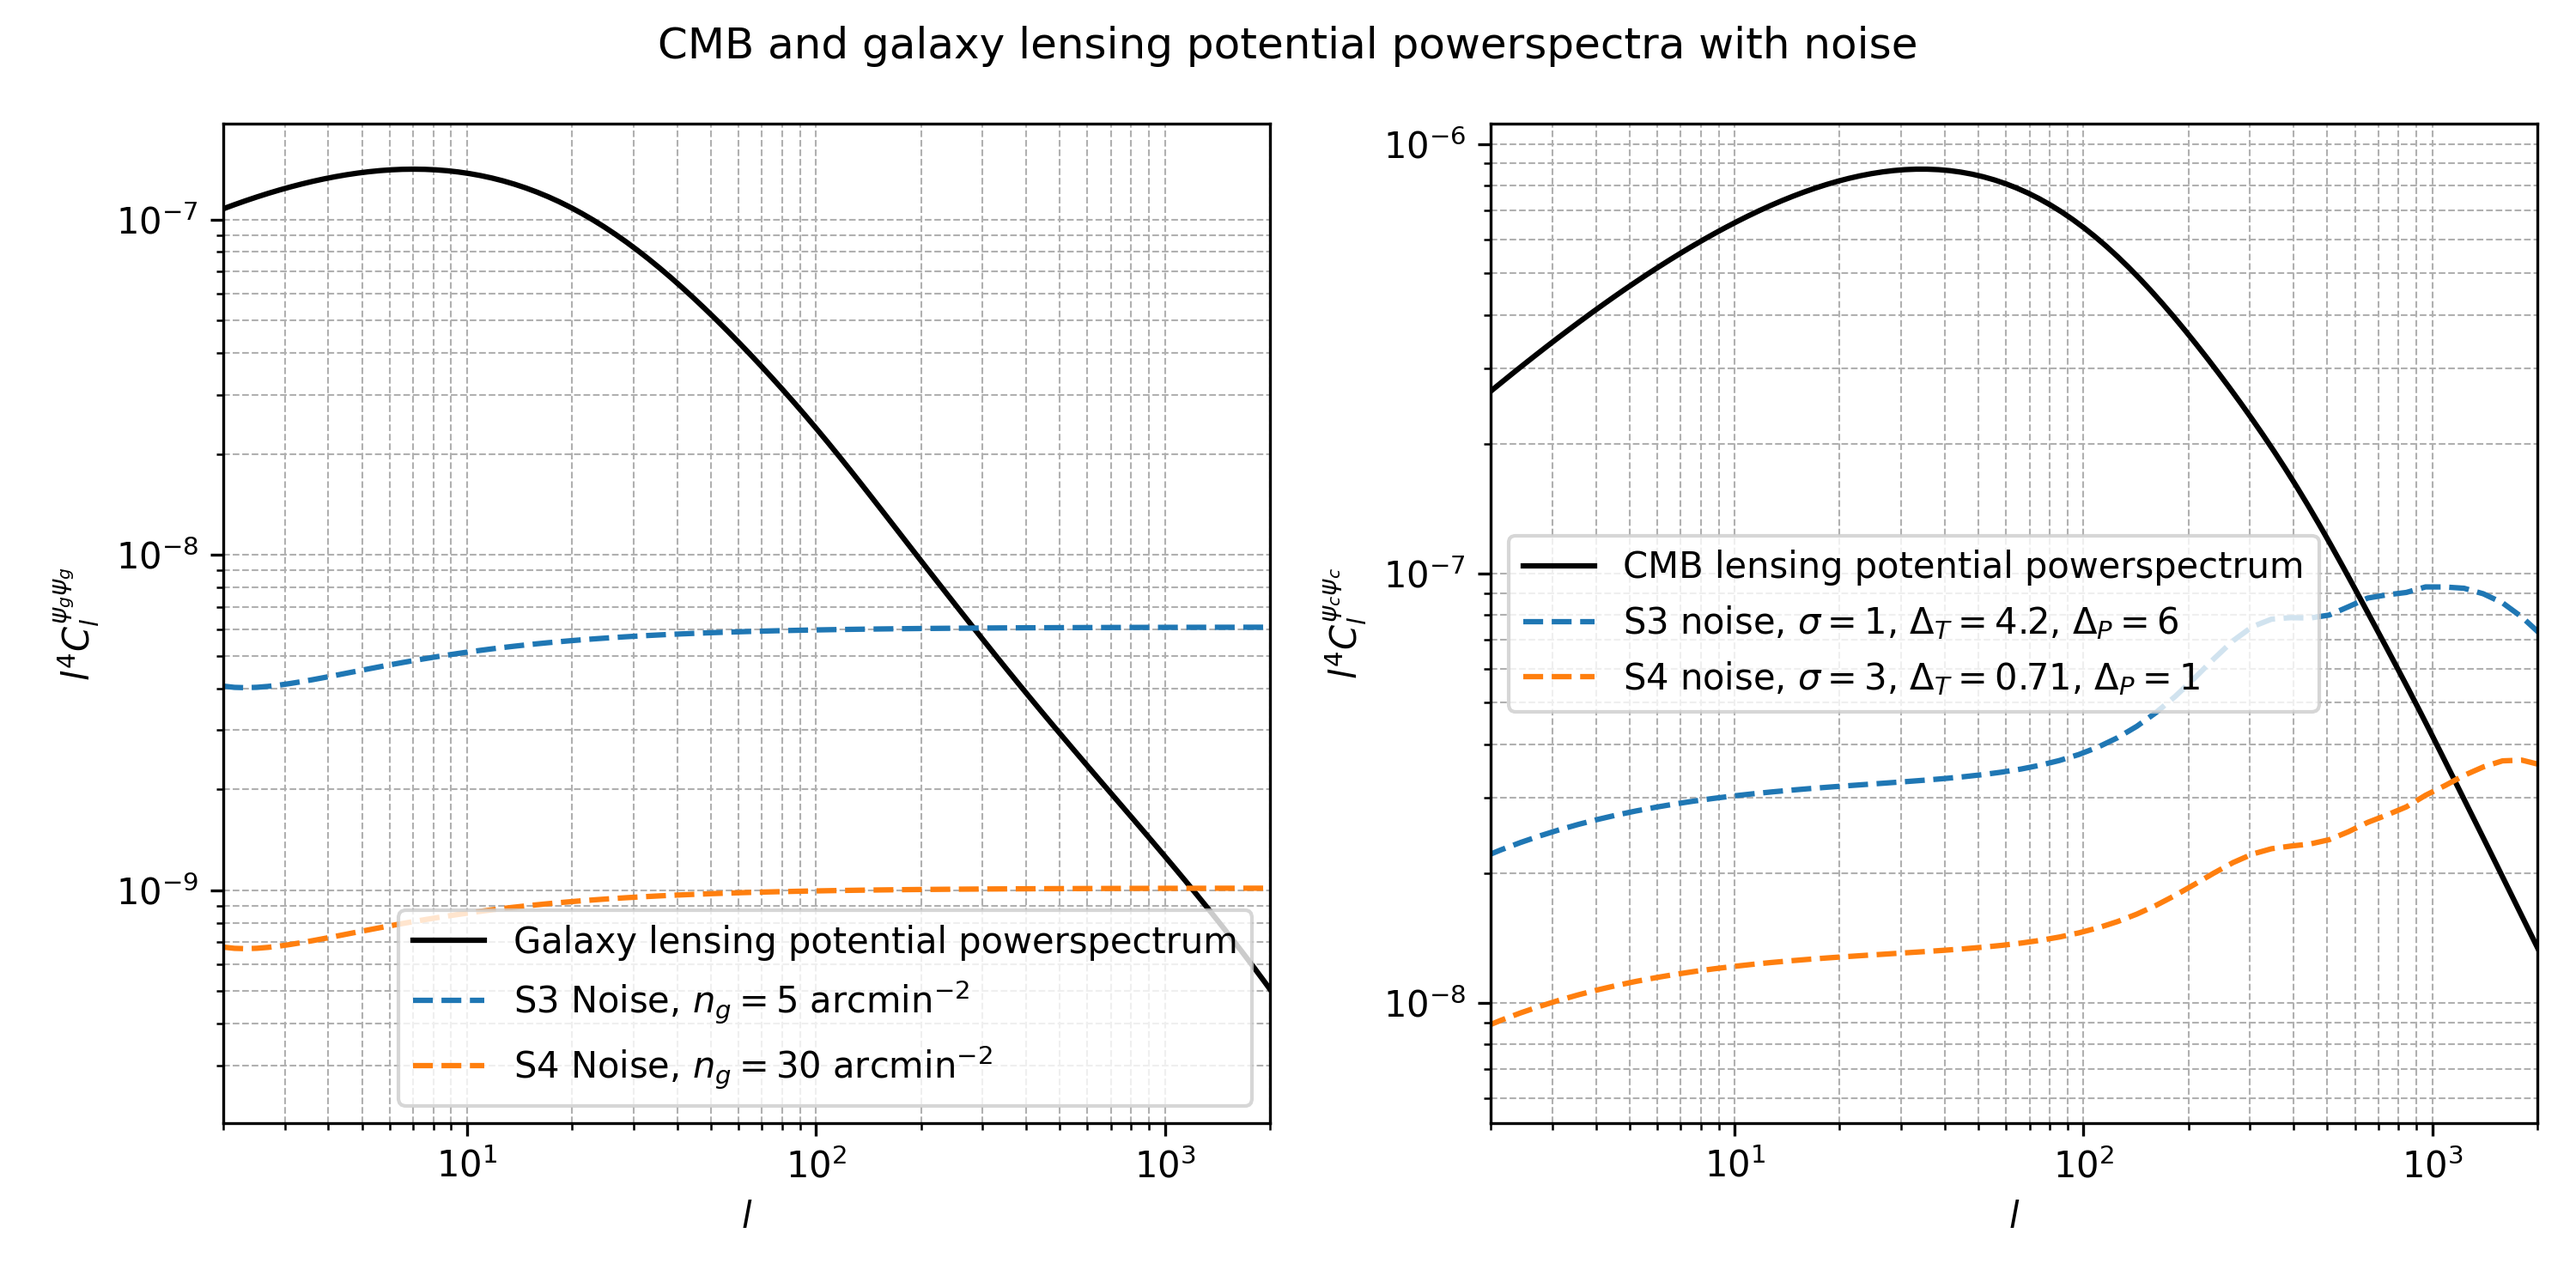
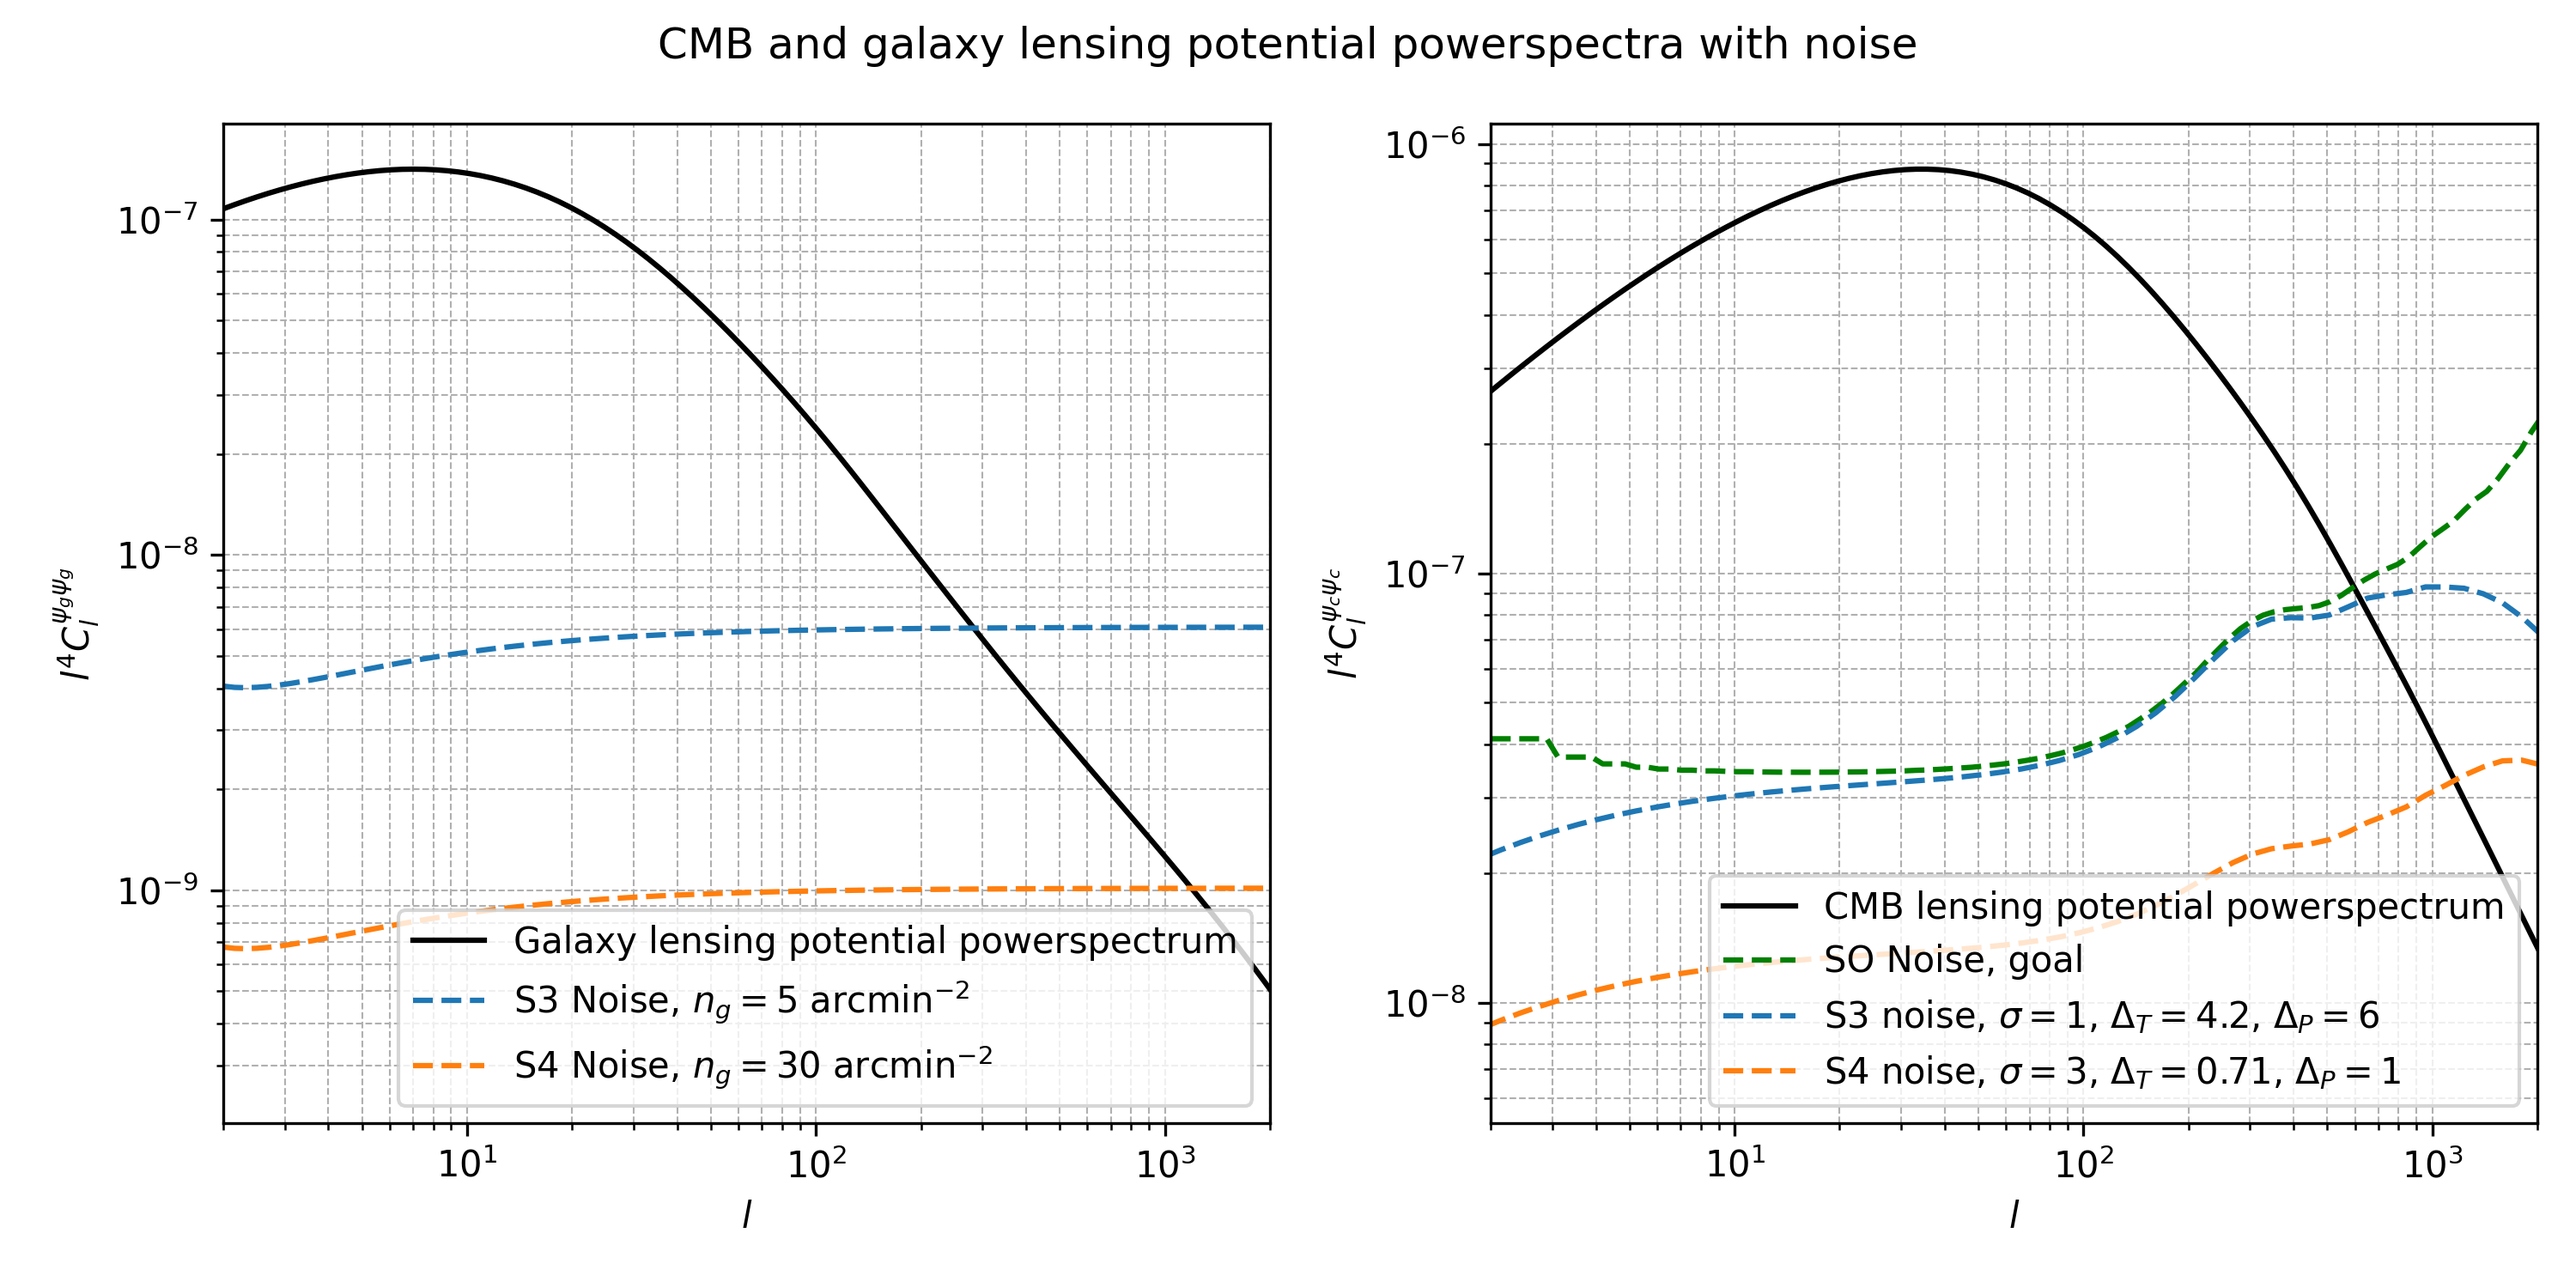
added SO goal curves

Changed region(s): [[0.651, 0.6747, 0.992, 0.8587], [0.589, 0.3987, 0.93, 0.5827], [0.62, 0.5827, 0.806, 0.6133]]

diff --git a/code/lps_vs_noise_plot.py b/code/lps_vs_noise_plot.py
@@ -30,16 +30,16 @@ names = ['TT', 'TE', 'TB', 'EE', 'EB']
  
 # SIMONS OBSERVATORY NOISE LEVELS
 # SO_noise_baseline_file_path = '/scratch/p319950/data/conv_noise.dat'
-#SO_noise_goal_file_path = '/Users/jonasfrugte/Desktop/fisher_calc_weak_lensing/code/cmb_noise_files/nlkk_v3_1_0_deproj0_SENS2_fsky0p4_it_lT30-3000_lP30-5000.dat'
+SO_noise_goal_file_path = './cmb_noise_files/nlkk_v3_1_0_deproj0_SENS2_fsky0p4_it_lT30-3000_lP30-5000.dat'
 
 # conv_noise_data_array = np.loadtxt(SO_noise_baseline_file_path)
-#conv_noise_goal_data_array = np.loadtxt(SO_noise_goal_file_path)
+conv_noise_goal_data_array = np.loadtxt(SO_noise_goal_file_path)
 
 # SO_noise = lambda l : conv_noise_data_array[l-2, 7] * 4. # * (l * 1.0)**(-2) * (l + 1.0)**(-2)
 # SO_noise_values = np.array([SO_noise(int(l)) for l in l_values])
 
-#SO_noise_goal = lambda l : 0.4 * conv_noise_goal_data_array[l-2, 7] * 4. # * (l * 1.0)**(-2) * (l + 1.0)**(-2)
-#SO_noise_goal_values = np.array([SO_noise_goal(int(l)) for l in l_values])
+SO_noise_goal = lambda l : 0.4 * conv_noise_goal_data_array[l-2, 7] * 4. # * (l * 1.0)**(-2) * (l + 1.0)**(-2)
+SO_noise_goal_values = np.array([SO_noise_goal(int(l)) for l in l_values])
 
 # GALAXY LENSING NOISE
 sigma_rms_S3 = 0.3
@@ -71,7 +71,7 @@ axs[0].grid(True, which='both', linestyle='--', linewidth=0.5)
 axs[1].loglog(l_values, l_values**4 * cmb_lps, label='CMB lensing potential powerspectrum', color='black')
 # CHECK CONVERSION FACTOR HERE
 # axs[1].loglog(l_values, SO_noise_values, label='SO Noise, baseline', linestyle='dashed', color='blue')
-#axs[1].loglog(l_values, SO_noise_goal_values, label='SO Noise, goal', linestyle='dashed', color='green')
+axs[1].loglog(l_values, SO_noise_goal_values, label='SO Noise, goal', linestyle='dashed', color='green')
 
 # STUFF TO COMPARE WITH QUAD EST PAPER
 #axs[1].loglog(ls_cmbn, ls_cmbn**2 * (ls_cmbn + 1)**2 * cmbn_41sqrt2, label=r'quad est. noise, $\sigma = 4$, $\Delta_T = 1$, $\Delta_P = \sqrt{2}$', linestyle='dashed', color='red')
